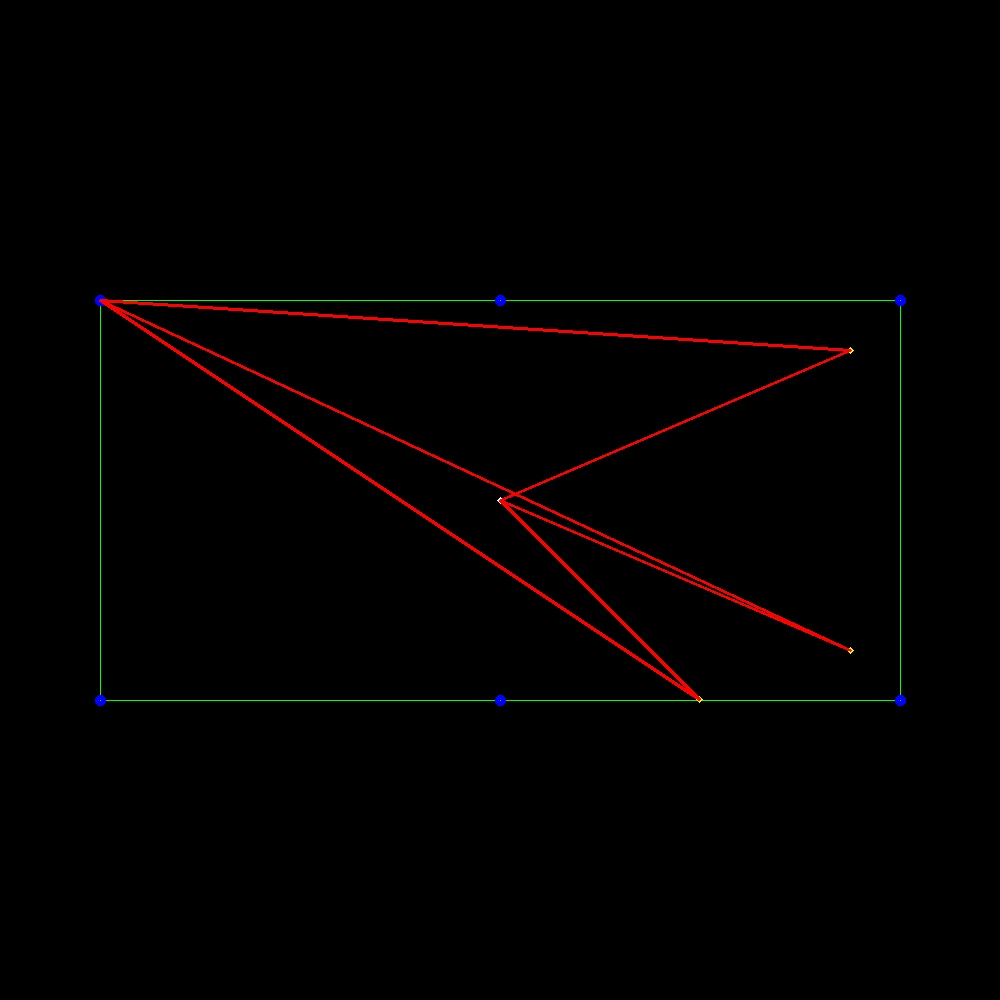
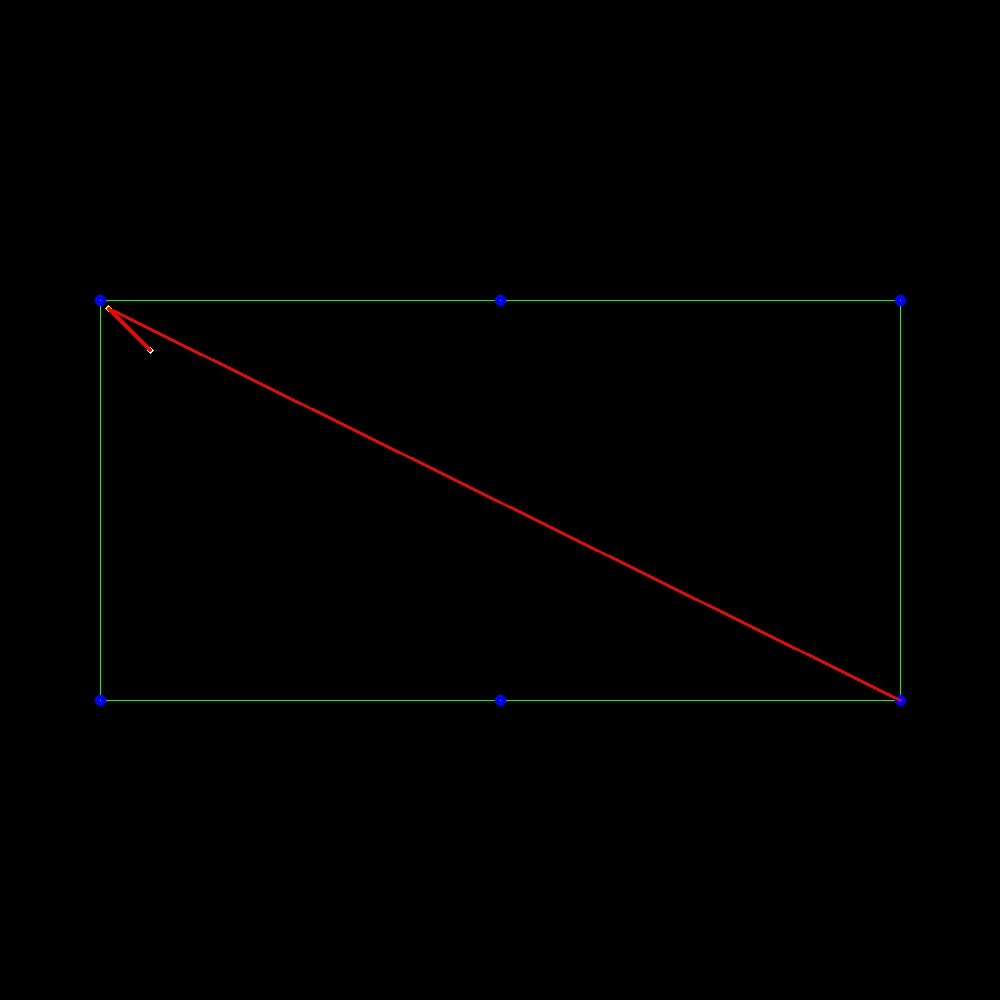
Added Some Bugs

diff --git a/shot_calculation.py b/shot_calculation.py
@@ -10,7 +10,7 @@ second_lines = [[-1,-1],[-1,-1],[-1,-1],[-1,-1],[-1,-1],[-1,-1],[-1,-1],[-1,-1],
 pockets_for_each_ball = [-1,-1,-1,-1,-1,-1,-1,-1,-1,-1,-1,-1,-1,-1]
 distance_cue_pocket = [-1,-1,-1,-1,-1,-1]
 cloests_pocket_for_each_ball = [-1,-1,-1,-1,-1,-1,-1,-1,-1,-1,-1,-1,-1,-1]
-#print(first_lines)
+
 #assuming all x and y are positive and -1 would mean that the ball is not on table
 #assuming the format of lists as follows:
 #list_ = [cue_ball,1,2,3,4,5,6,7,8,9,10,11,12,13,14,15]
@@ -124,8 +124,13 @@ def create_second_lines(listX, listY):
             print(first_lines[2])
         
         for j in range(5):
-            if j == closest_pocket: 
-                continue
+            if j == closest_pocket:
+                #ignore closest pocket only if target ball is not between cue ball and pocket 
+                #TODO
+                if not (listX[i]>pockets[j][0] and listX[0]<pockets[j][0]):
+                    continue
+                elif not(listX[i]<pockets[j][0] and listX[0]>pockets[j][0]):
+                    continue
             shot = all_shots_for_current_ball[j]
             if(shot[0] == 100000000): continue
             possible_shot = True
@@ -254,8 +259,8 @@ def drawImage():
 
     cv.imwrite('incorrect_img_2.jpg',img)
 
-listX = [500,699,850,850,-1,-1,-1,-1,-1,-1,-1,-1,-1,-1,-1]
-listY = [500,699,350,650,-1,-1,-1,-1,-1,-1,-1,-1,-1,-1,-1]
+listX = [150,108,-1,-1,-1,-1,-1,-1,-1,-1,-1,-1,-1,-1,-1]
+listY = [350,308,-1,-1,-1,-1,-1,-1,-1,-1,-1,-1,-1,-1,-1]
 drawImage();
 
 #cases not working 
@@ -265,3 +270,7 @@ drawImage();
 
 
 #really buggy need to fix up a lot of stuff and clean up code
+
+
+
+#eat the ball
